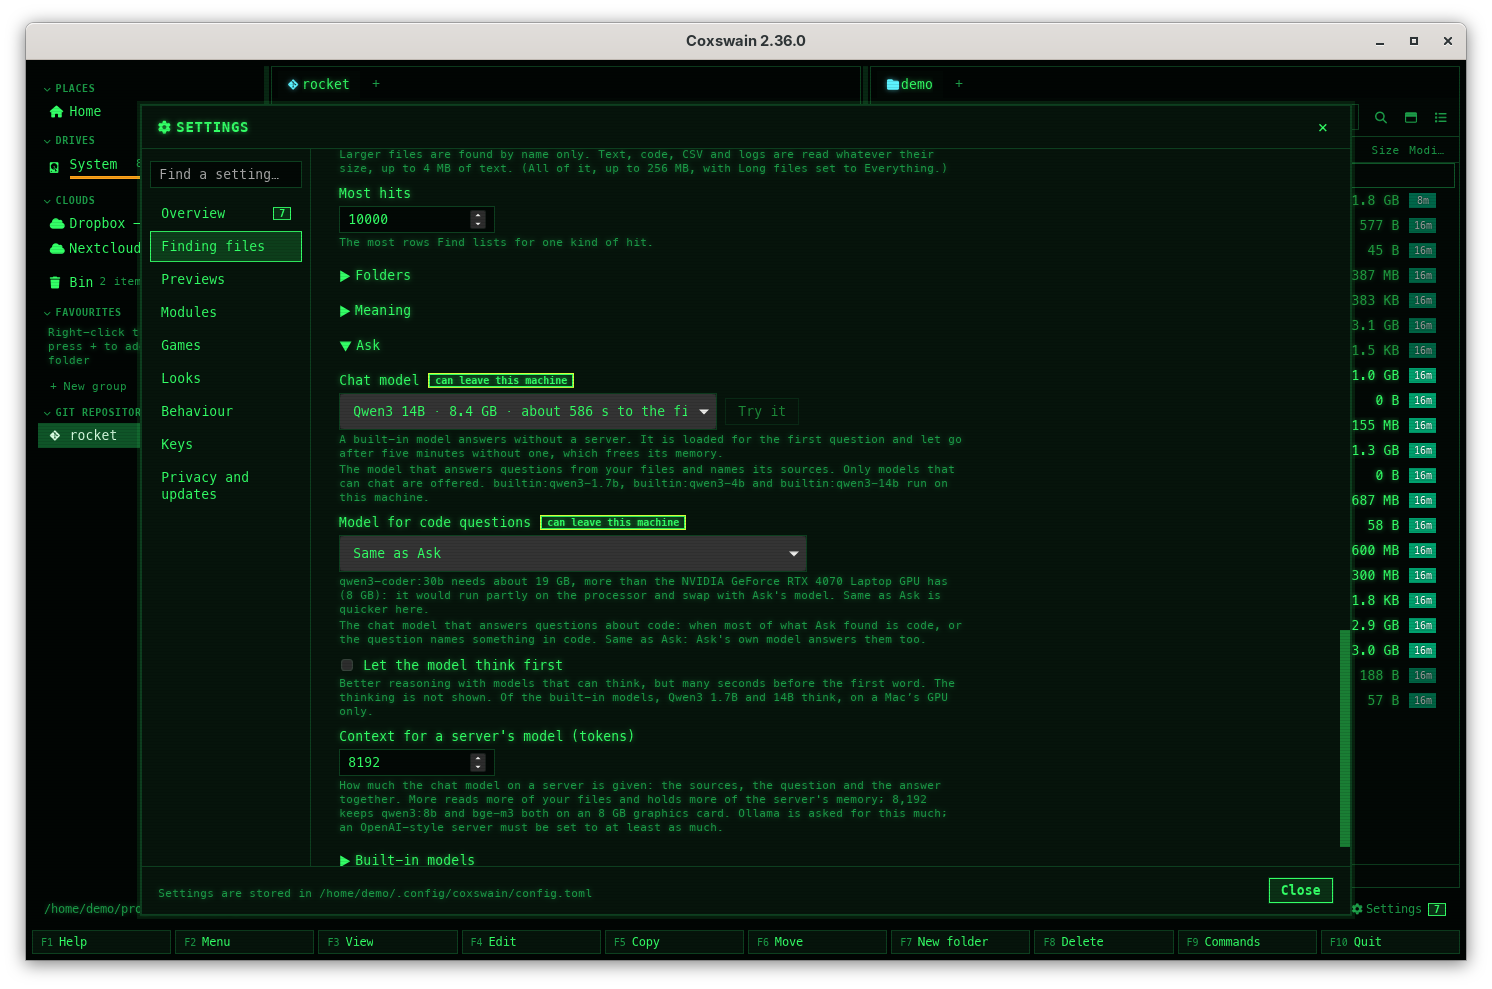
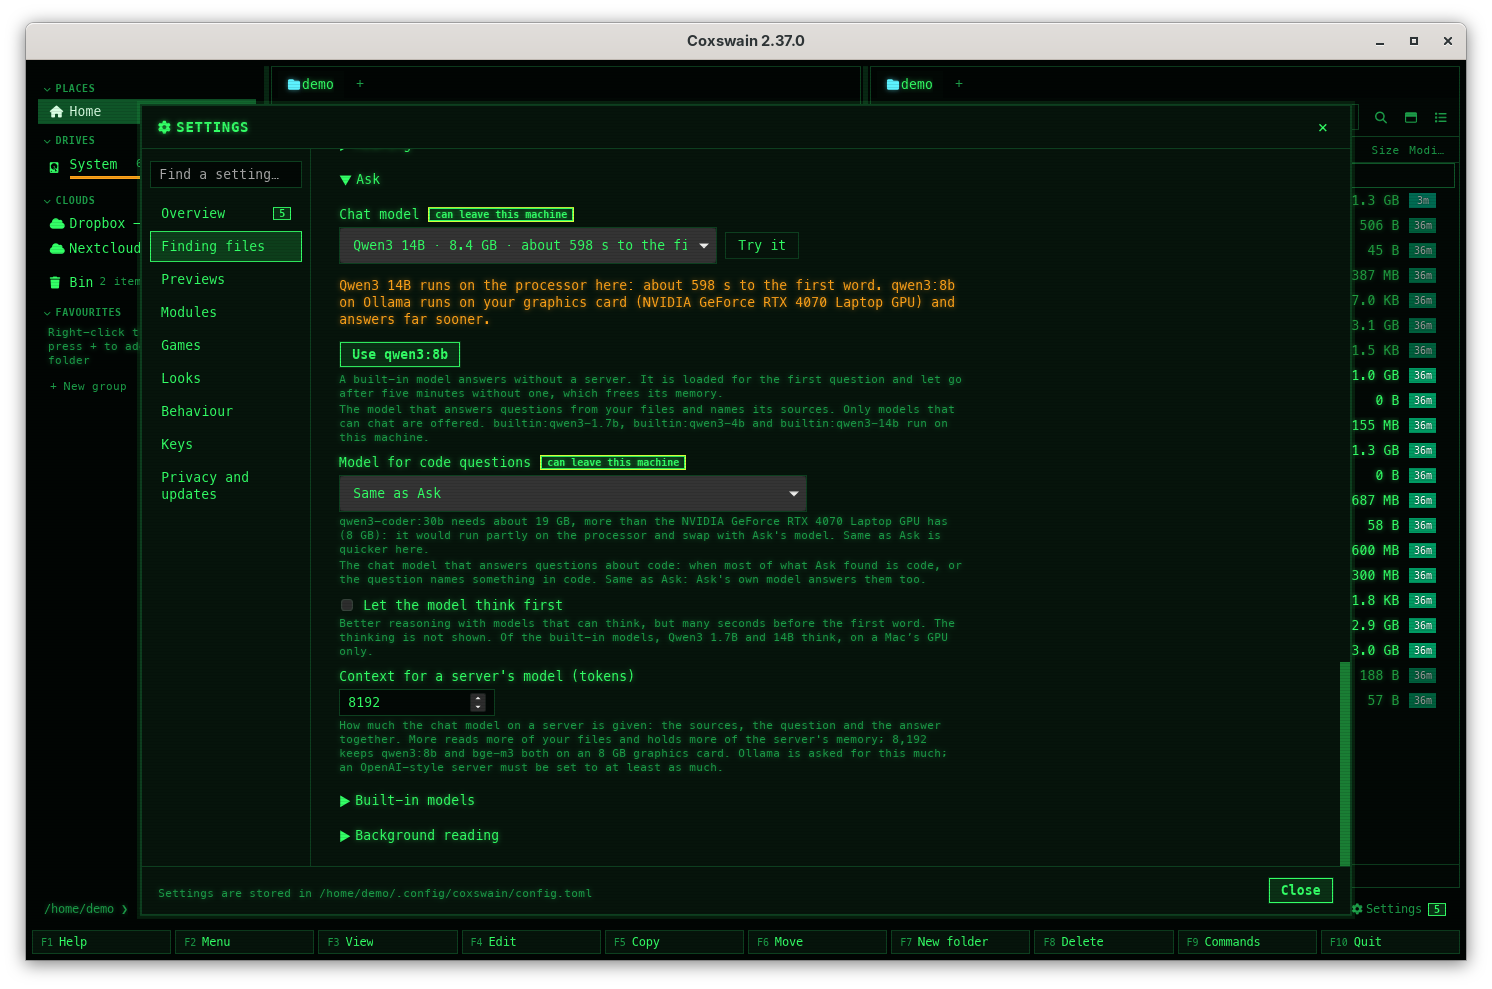
Pictures: settings-ask-builtin.png shows the Ollama suggestion line again

diff --git a/docs/search/ask-builtin.md b/docs/search/ask-builtin.md
@@ -11,7 +11,7 @@ It answers like a server's model: from the passages of your files closest to the
 citing them as **[1]**, **[2]**, word by word. Everything in [Ask](ask.md) (the keys, follow-ups,
 the scope, the sources) works the same.
 
-![Settings → Finding files → Details → Ask on a PC with an RTX 4070: Chat model set to Qwen3 14B · 8.4 GB · about 586 s to the first word with Try it, the line on built-in models and which ones can chat here, then Model for code questions: Same as Ask, with the line qwen3-coder:30b needs about 19 GB, more than the NVIDIA GeForce RTX 4070 Laptop GPU has (8 GB), then Let the model think first and Context for a server's model (tokens) 8192](../screenshots/settings-ask-builtin.png)
+![Settings → Finding files → Details → Ask on a PC with an RTX 4070 and Ollama: Chat model set to Qwen3 14B · 8.4 GB · about 598 s to the first word, with the red line Qwen3 14B runs on the processor here: about 598 s to the first word. qwen3:8b on Ollama runs on your graphics card (NVIDIA GeForce RTX 4070 Laptop GPU) and answers far sooner, and the Use qwen3:8b button; then Model for code questions: Same as Ask, with the line qwen3-coder:30b needs about 19 GB, more than the NVIDIA GeForce RTX 4070 Laptop GPU has (8 GB), then Let the model think first and Context for a server's model (tokens) 8192](../screenshots/settings-ask-builtin.png)
 
 ## Contents
 
